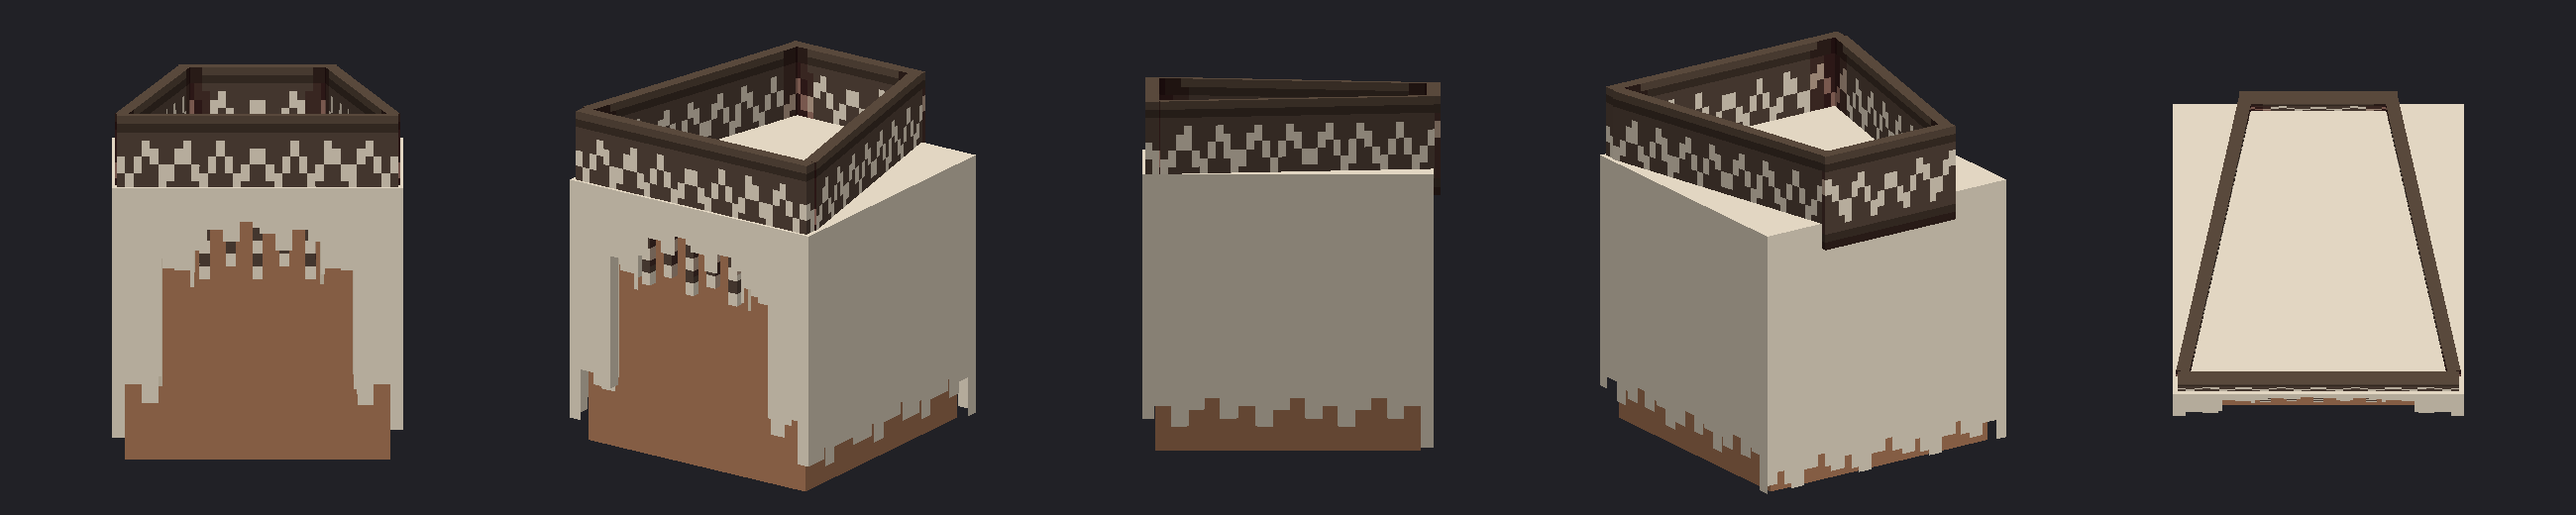
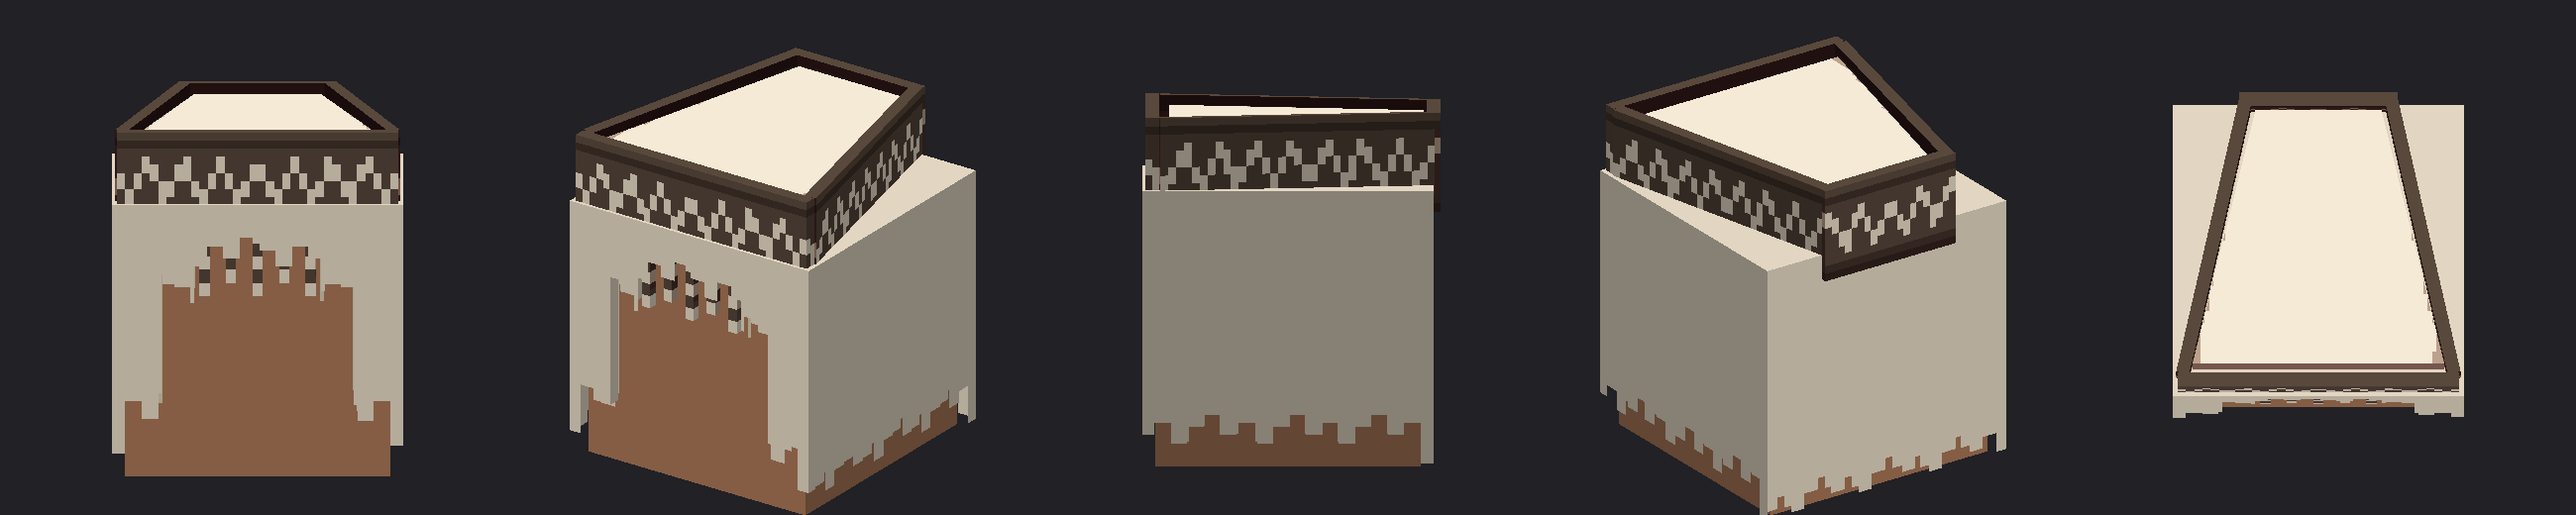
Kemira: la parte de arriba del pelo dentro de la diadema
Claude-Session: https://claude.ai/code/session_01JLSuk79QgXUucDMTiBYitK

diff --git a/taller/personajes/kemira.py b/taller/personajes/kemira.py
@@ -110,10 +110,22 @@ def pelo(p, C, T, o=0.4):
     p.caja(g, "flequillo", (-1.9, C, -h - o), (1.9, T, -h), capa_pelo(7.4), dens=8, luz=False)
 
 
+def copete(p, T, fx=4.1, fz=-3.9, bx=2.2, bz=4.4, alto=2.3):
+    """La parte de arriba del pelo, dentro de la diadema: un bloque crema con la forma del trapecio (un poco adentro
+    de las paredes), del techo de la capa de pelo hasta casi el borde de la diadema. Liso y sin sombras."""
+    from .. import malla as geo
+    m = 0.3                                                      # separacion de las paredes
+    def anillo(y):
+        return [(bx - m, y, bz - m), (fx - m, y, fz + m), (-fx + m, y, fz + m), (-bx + m, y, bz - m)]
+    malla = geo.loft_puntos([anillo(T + 0.4), anillo(T + alto)])
+    p.malla("Head/pelo", "copete", malla, lambda t: hex_(PELO), dens=8)
+
+
 def construir():
     p = Personaje("kemira", altura=36, cabeza=8, torso=(7.4, 12, 4.0), brazo=(2.6, 2.6), pierna=(3.4, 3.4))
     C, T = p.cuello, p.tope                                # 28, 36
     p.caja("Head/cabeza", "cabeza", (-4, C, -4), (4, T, 4), cabeza, dens=8, luz=False)
     pelo(p, C, T)
+    copete(p, T)
     diadema(p, T)
     return p
